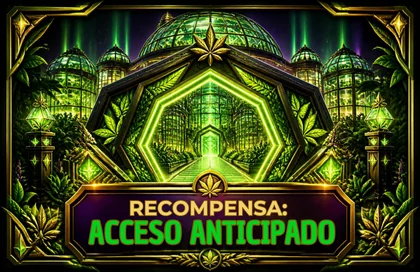
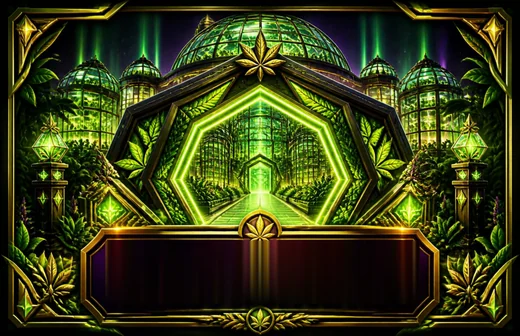
Pack de Fundador: imágenes de títulos y acceso anticipado sin texto pintado; el juego escribe el texto en el idioma del jugador

diff --git a/src/components/founder/FounderView.tsx b/src/components/founder/FounderView.tsx
@@ -83,11 +83,18 @@ const PayPanel: React.FC<{ order: FounderOrder; network: string; onDone: () => v
 };
 
 /** one thing the pack brings: its art and a line */
-export const Perk: React.FC<{ img: string; title: string; text: string; wide?: boolean; children?: React.ReactNode }> = ({ img, title, text, children }) => (
+export const Perk: React.FC<{ img: string; title: string; text: string; ratio?: string; children?: React.ReactNode }> = ({ img, title, text, ratio = '1 / 1', children }) => (
   <div className="fp-perk">
-    <div className="fp-perk-art"><img src={img} alt="" loading="lazy" />{children}</div>
+    <div className="fp-perk-art"><div className="fp-perk-img" style={{ aspectRatio: ratio }}><img src={img} alt="" loading="lazy" />{children}</div></div>
     <div className="p-2.5 space-y-0.5"><div className="text-[12.5px] font-bold text-white leading-tight">{title}</div><div className="text-[11px] text-neutral-400 leading-snug">{text}</div></div>
   </div>
+);
+
+/** text written on an art's empty plate, in the player's language: `top` is the plate's centre (% of the art's height) */
+export const PlateText: React.FC<{ top: number; width: number; lines: Array<{ text: string; tone: 'gold' | 'green'; size: number }> }> = ({ top, width, lines }) => (
+  <span className="fp-plate" style={{ top: `${top}%`, width: `${width}%` }}>
+    {lines.map((l, i) => <span key={i} className={`fp-plate-${l.tone}`} style={{ fontSize: `${l.size}cqw` }}>{l.text}</span>)}
+  </span>
 );
 
 /** «FUNDADOR #N» written on the badge's empty plate (without a number it shows «#N») */
@@ -180,9 +187,15 @@ export const FounderView: React.FC = () => {
             <BadgeNumber number={me?.number} />
           </Perk>
           <Perk img="/founder/medallion.webp" title={t('Avatar «{v0}»', { v0: t(design.name) })} text={t('Exclusivo y ligado a tu cuenta: nunca sale de un cofre ni se vende.')} />
-          <Perk img={FOUNDER_TITLE.arquitecto.img} title={t('Título «{v0}»', { v0: t(FOUNDER_TITLE.arquitecto.name) })} text={t('Un título para mostrar junto a tu nombre.')} />
-          <Perk img={FOUNDER_TITLE.maestro.img} title={t('Título «{v0}»', { v0: t(FOUNDER_TITLE.maestro.name) })} text={t('O este otro: tú eliges cuál llevar.')} />
-          <Perk img="/founder/perk-acceso.webp" title={t('Acceso anticipado')} text={t('Pruebas las funciones nuevas antes que nadie.')} wide />
+          <Perk img={FOUNDER_TITLE.arquitecto.img} title={t('Título «{v0}»', { v0: t(FOUNDER_TITLE.arquitecto.name) })} text={t('Un título para mostrar junto a tu nombre.')}>
+            <PlateText top={74.3} width={56} lines={[{ text: t(FOUNDER_TITLE.arquitecto.name), tone: 'gold', size: 7.2 }]} />
+          </Perk>
+          <Perk img={FOUNDER_TITLE.maestro.img} title={t('Título «{v0}»', { v0: t(FOUNDER_TITLE.maestro.name) })} text={t('O este otro: tú eliges cuál llevar.')}>
+            <PlateText top={78.2} width={50} lines={[{ text: t(FOUNDER_TITLE.maestro.name), tone: 'green', size: 7.6 }]} />
+          </Perk>
+          <Perk img="/founder/perk-acceso.webp" ratio="4250 / 2750" title={t('Acceso anticipado')} text={t('Pruebas las funciones nuevas antes que nadie.')}>
+            <PlateText top={80.9} width={74} lines={[{ text: t('Recompensa:'), tone: 'gold', size: 3.4 }, { text: t('Acceso anticipado'), tone: 'green', size: 5 }]} />
+          </Perk>
           <Perk img="/founder/perk-creditos.webp" title={t('Tu nombre en los créditos')} text={t('En el juego y en el sitio, si quieres aparecer.')} />
         </div>
       </section>

diff --git a/src/dev/NpcLab.tsx b/src/dev/NpcLab.tsx
@@ -1,7 +1,7 @@
 import React, { useEffect, useState } from 'react';
 import { Npc, type Mood } from '../components/npc/Npc';
 import { sceneArt3d } from '../components/npc/art3d';
-import { BadgeNumber, FounderCertificate, Perk } from '../components/founder/FounderView';
+import { BadgeNumber, FounderCertificate, Perk, PlateText } from '../components/founder/FounderView';
 
 /** Dev only (`/#npclab`): the 3D characters in their panels, with their expressions, without signing in. */
 const MOODS: Mood[] = ['idle', 'happy', 'think'];
@@ -59,9 +59,9 @@ export const FounderLab: React.FC = () => (
     <div className="grid gap-3 grid-cols-2 lg:grid-cols-3 max-w-4xl">
       <Perk img="/founder/badge.webp" title="Insignia «Fundador #N»" text="Junto a tu nombre en el perfil y en el mercado."><BadgeNumber number={7} /></Perk>
       <Perk img="/founder/medallion.webp" title="Avatar «Fundador del Imperio»" text="Exclusivo y ligado a tu cuenta." />
-      <Perk img="/founder/perk-arquitecto.webp" title="Título «Arquitecto del Imperio»" text="Un título para mostrar." />
-      <Perk img="/founder/perk-maestro.webp" title="Título «Maestro del Cultivo»" text="O este otro." />
-      <Perk img="/founder/perk-acceso.webp" title="Acceso anticipado" text="Pruebas las funciones nuevas antes que nadie." />
+      <Perk img="/founder/perk-arquitecto.webp" title="Título «Arquitecto del Imperio»" text="Un título para mostrar."><PlateText top={74.3} width={56} lines={[{ text: 'Arquitecto del Imperio', tone: 'gold', size: 7.2 }]} /></Perk>
+      <Perk img="/founder/perk-maestro.webp" title="Título «Maestro del Cultivo»" text="O este otro."><PlateText top={78.2} width={50} lines={[{ text: 'Maestro del Cultivo', tone: 'green', size: 7.6 }]} /></Perk>
+      <Perk img="/founder/perk-acceso.webp" ratio="4250 / 2750" title="Acceso anticipado" text="Pruebas las funciones nuevas antes que nadie."><PlateText top={80.9} width={74} lines={[{ text: 'Recompensa:', tone: 'gold', size: 3.4 }, { text: 'Acceso anticipado', tone: 'green', size: 5 }]} /></Perk>
       <Perk img="/founder/perk-creditos.webp" title="Tu nombre en los créditos" text="En el juego y en el sitio." />
     </div>
   </div>

diff --git a/src/index.css b/src/index.css
@@ -1196,8 +1196,13 @@ body::before {
 @keyframes fpFloat { 0%, 100% { transform: translateY(0) rotate(-0.6deg); } 50% { transform: translateY(-6px) rotate(0.6deg); } }
 .fp-perk { border-radius: 14px; overflow: hidden; border: 1px solid rgba(251, 191, 36, 0.3); background: rgba(12, 9, 26, 0.8); transition: transform 0.2s, border-color 0.2s; }
 .fp-perk:hover { transform: translateY(-2px); border-color: rgba(251, 191, 36, 0.6); }
-.fp-perk-art { position: relative; aspect-ratio: 1 / 1; background: #07050f; container-type: inline-size; }
-.fp-perk-art img { width: 100%; height: 100%; object-fit: contain; }
+.fp-perk-art { aspect-ratio: 1 / 1; background: #07050f; display: flex; align-items: center; justify-content: center; }
+.fp-perk-img { position: relative; width: 100%; container-type: inline-size; }
+.fp-perk-img img { width: 100%; height: 100%; display: block; }
+/* words painted on an art's plate by the game (the plate was cleaned), in the player's language */
+.fp-plate { position: absolute; left: 50%; transform: translate(-50%, -50%); display: flex; flex-direction: column; align-items: center; text-align: center; line-height: 1.05; font-family: var(--font-serif, Georgia, serif); font-weight: 900; text-transform: uppercase; }
+.fp-plate-gold { color: #f5c86a; text-shadow: 0 0.35cqw 0 #3b2208, 0 0 1.6cqw rgba(0, 0, 0, 0.7); }
+.fp-plate-green { color: #3dff4f; text-shadow: 0 0.35cqw 0 #0b3d10, 0 0 1.8cqw rgba(61, 255, 79, 0.45); }
 /* «FUNDADOR #N» on the badge's empty plate (the plate sits at 50 % × 70 % of the art, 14 % tall) */
 .fp-badge-text { position: absolute; left: 50%; top: 70.3%; transform: translate(-50%, -50%); white-space: nowrap; font-family: var(--font-serif, Georgia, serif); font-weight: 900; font-size: 8.4cqw; letter-spacing: 0.04em;
   color: #f5c86a; text-shadow: 0 0.35cqw 0 #3b2208, 0 0 2cqw rgba(0, 0, 0, 0.6); }
